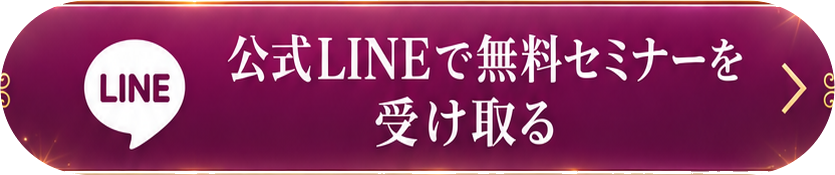
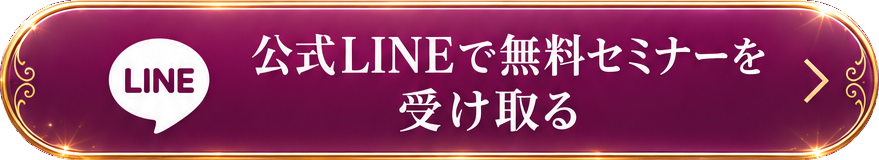
Add files via upload

Changed region(s): [[0.0, 0.0, 1.0, 1.0], [0.4359, 0.5312, 0.685, 0.8438]]

diff --git a/nissyaurahikiyose/index.html b/nissyaurahikiyose/index.html
@@ -27,7 +27,7 @@
       opacity: 1; transform: translateY(0); pointer-events: auto;
     }
     .cta-follow a {
-      display: block; width: min(92vw, 835px); line-height: 0;
+      display: block; width: min(92vw, 879px); line-height: 0;
       text-decoration: none; border-radius: 9999px; overflow: hidden;
       -webkit-tap-highlight-color: transparent;
       filter: drop-shadow(0 10px 18px rgba(40,10,30,.42));
@@ -54,7 +54,7 @@
   </main>
   <div class="cta-follow" id="followWrap">
     <a class="line-link" href="#" rel="noopener noreferrer">
-      <img src="assets/cta-follow.png" width="835" height="175" alt="公式LINEで無料セミナーを受け取る" />
+      <img src="assets/cta-follow.png" width="879" height="160" alt="公式LINEで無料セミナーを受け取る" />
     </a>
   </div>
   <script>
